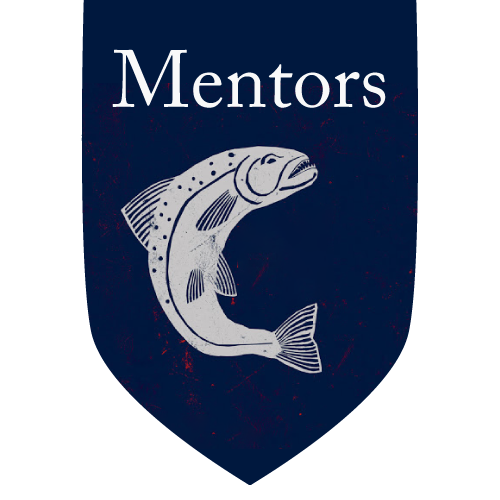
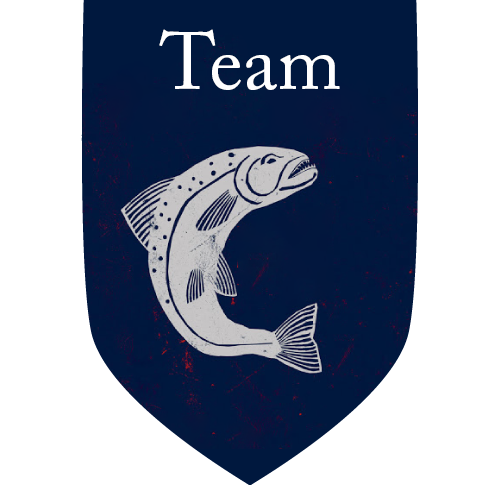
final changes

Changed region(s): [[0.21, 0.06, 0.78, 0.24]]

diff --git a/festWebsite/festWebsite/templates/website/homelast.html b/festWebsite/festWebsite/templates/website/homelast.html
@@ -192,7 +192,7 @@
         <a href="\campusambassador"><div class="col m2 boo" style="cursor: pointer;"><img style="max-height: 200px;max-width: 200px;"
                                                               src="{% static 'images/CA.png' %}">
         </div></a>
-        <a href="\mentors"><div class="col m2 boo" style="cursor: pointer;"><img style="max-height: 200px;max-width: 200px;"
+        <a href="\team"><div class="col m2 boo" style="cursor: pointer;"><img style="max-height: 200px;max-width: 200px;"
                                                               src="{% static 'images/Men.png' %}">
         </div></a>
         <a href="\hospitality"><div class="col m2 boo" style="cursor: pointer;"><img style="max-height: 200px;max-width: 200px;"

diff --git a/festWebsite/Accomodations.py b/festWebsite/Accomodations.py
@@ -47,7 +47,11 @@ def create():
     df.to_csv("Accommodations.csv")
     subject = "Accommodation File"
     body = u"Find the attached CSV File for accommodations."
-    emailsend = EmailMessage(subject, body, to=['pprashant2398@gmail.com'])
+    emailsend = EmailMessage(subject, body, to=['tushar.bhatia.15csc@bml.edu.in', 'sankalp.pasricha.15csc@bml.edu.in',
+          'danish.jameel.15csc@bml.edu.in', 'dadu.reddy.15ece@bml.edu.in',
+          'manav.gupta.15cse@bml.edu.in', 'astha.sharma.16mec@bml.edu.in',
+          'mahima.chopra.15csc@bml.edu.in', 'nishit.garg.15csc@bml.edu.in',
+          'natasha.dora.15bck@bml.edu.in', 'shreya.mathur.15bk@bml.edu.in'])
     path = os.getcwd()
     path += "/Accommodations.csv"
     print(path)
